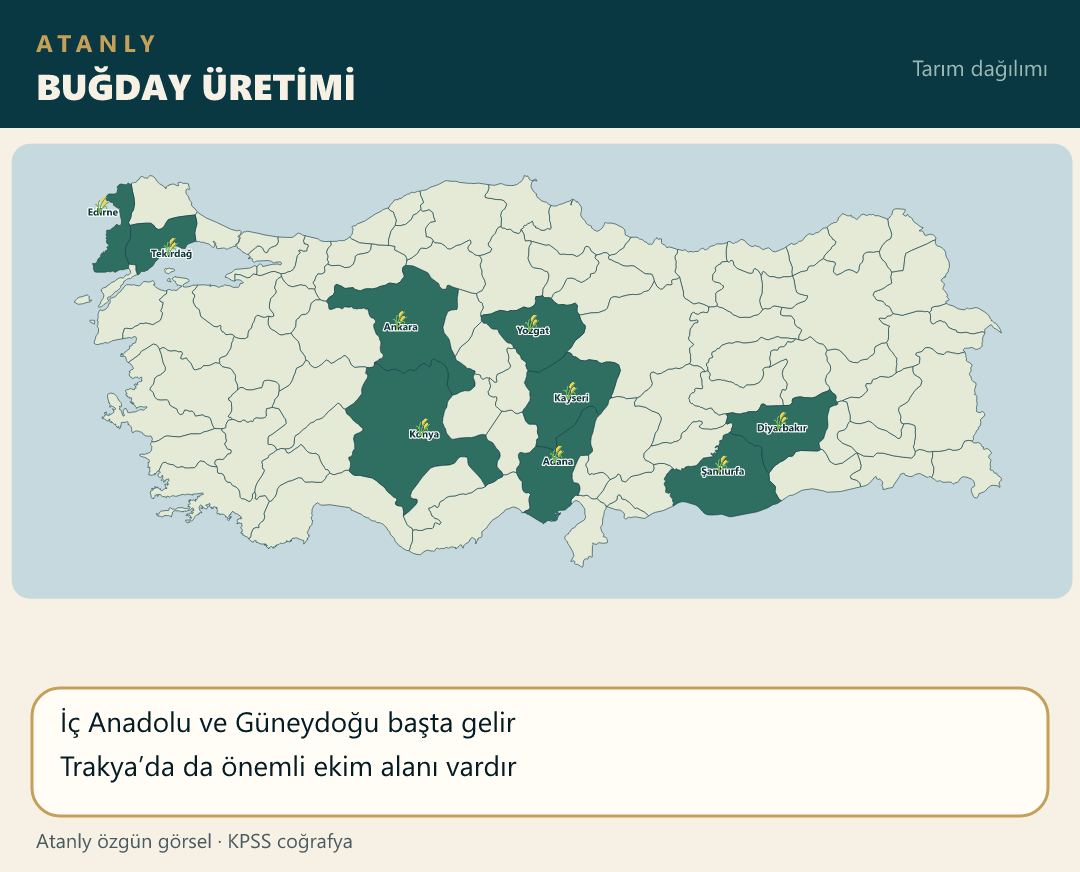
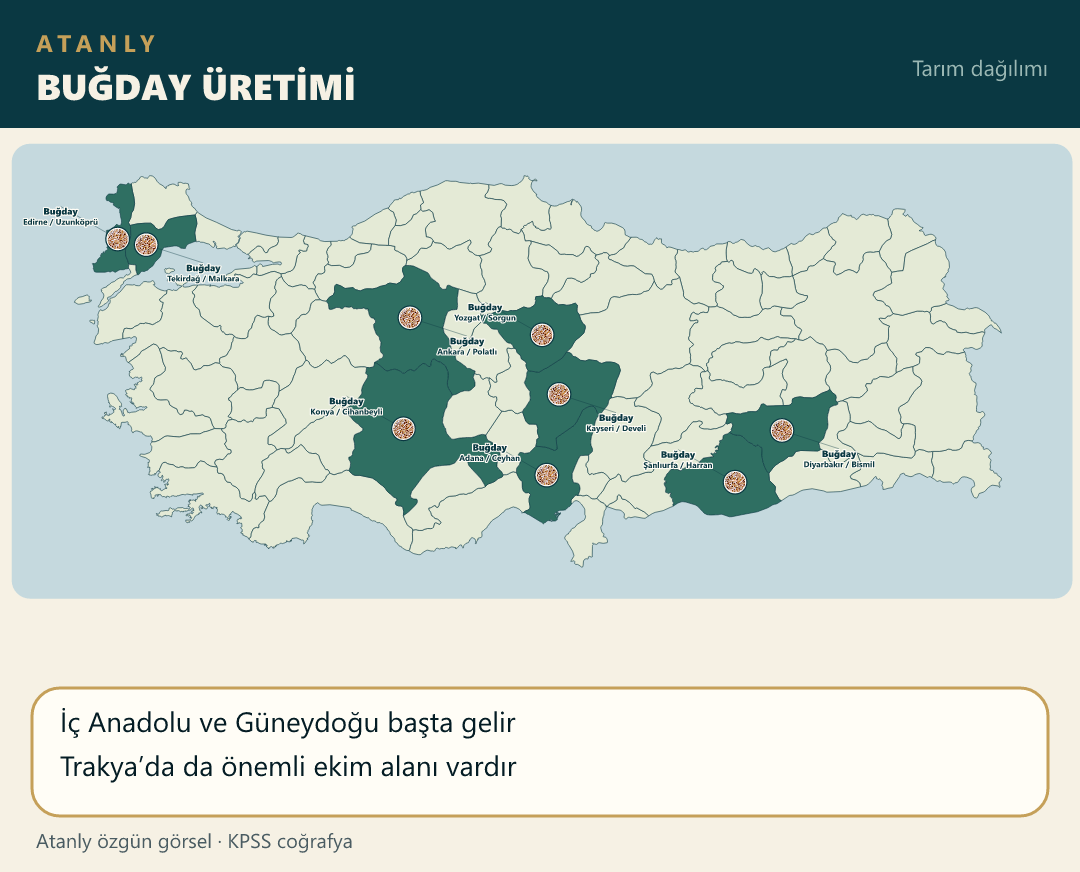
Place wheat photos and separate Thrace sunflower labels.

diff --git a/scripts/build-atanly-maps.js b/scripts/build-atanly-maps.js
@@ -404,13 +404,31 @@ function spreadSameCell(pts) {
     }
 }
 
+function spreadPhotoLabels(pts) {
+    var i, j, a, b, dx, dy;
+    for (i = 0; i < pts.length; i++) {
+        for (j = i + 1; j < pts.length; j++) {
+            if (pts[i].locked || pts[j].locked) continue;
+            dx = pts[j].pinX - pts[i].pinX;
+            dy = pts[j].pinY - pts[i].pinY;
+            if (Math.hypot(dx, dy) > 120) continue;
+            a = pts[i].pinX <= pts[j].pinX ? pts[i] : pts[j];
+            b = a === pts[i] ? pts[j] : pts[i];
+            a.ldx = -56;
+            b.ldx = 56;
+            a.ldy = -24;
+            b.ldy = 26;
+        }
+    }
+}
+
 var ICON_DIR = path.join(IMG, "map-icons");
 var iconCache = {};
 
 function topicIcon(file) {
     var k = norm(String(file || "").replace(/\.(png|jpg)$/i, ""));
     var T = {
-        gul: "rose", elma: "apple", bugday: "wheat", pamuk: "cotton", zeytin: "olive",
+        gul: "rose", elma: "apple", bugday: "bugday", pamuk: "cotton", zeytin: "olive",
         uzum: "grapes", misir: "corn", patates: "potato", arpa: "arpa", sekerpancar: "beet",
         hashas: "poppy", incir: "fig", kayisi: "apricot", muz: "banana", anason: "anason",
         aspir: "aspir", susam: "seed", tutun: "leaf", yerfistik: "peanut", antepfistik: "antepfistik",
@@ -478,19 +496,21 @@ function cropMap(provs, opts) {
         }
         hi.push(row.il);
         var pos = districtXY(fp);
-        var ldy = (fp.maxY - pos.y) < 55 ? -20 : 22;
+        var ldy = row.ldy != null ? row.ldy : ((fp.maxY - pos.y) < 55 ? -20 : 22);
         pts.push({
             x: pos.x, y: pos.y, ox: pos.x, oy: pos.y,
             pinX: pos.x, pinY: pos.y,
-            ldx: 0,
+            ldx: row.ldx != null ? row.ldx : 0,
             ldy: ldy,
             text: row.yazi || row.il,
             urun: opts.urun || "",
             il: row.il,
-            ilce: row.ilce || ""
+            ilce: row.ilce || "",
+            locked: row.ldx != null
         });
     });
     if (!opts.urun) spreadSameCell(pts);
+    else spreadPhotoLabels(pts);
     var factsY = 78 + MAP_BLOCK_H + 16;
     var facts = wrapFacts(opts.facts, 16, factsY, CANVAS_W - 32, 14);
     var H = factsY + facts.h + 28;
@@ -511,7 +531,19 @@ function main() {
 
     var crops = [
         { file: "elma.png", title: "ELMA ÜRETİMİ", iller: ["Isparta", "Karaman", "Niğde", "Nevşehir", "Konya", "Denizli", "Antalya"], facts: ["Yoğunluk: Göller Yöresi ve Niğde–Nevşehir çevresi", "İç Anadolu’nun yüksek ovalarında da yetişir"] },
-        { file: "bugday.png", title: "BUĞDAY ÜRETİMİ", iller: ["Konya", "Ankara", "Şanlıurfa", "Diyarbakır", "Tekirdağ", "Edirne", "Yozgat", "Kayseri", "Adana"], facts: ["İç Anadolu ve Güneydoğu başta gelir", "Trakya’da da önemli ekim alanı vardır"] },
+        { file: "bugday.png", title: "BUĞDAY ÜRETİMİ", urun: "Buğday",
+            noktalar: [
+                { il: "Konya", ilce: "Cihanbeyli" },
+                { il: "Ankara", ilce: "Polatlı" },
+                { il: "Şanlıurfa", ilce: "Harran" },
+                { il: "Diyarbakır", ilce: "Bismil" },
+                { il: "Tekirdağ", ilce: "Malkara" },
+                { il: "Edirne", ilce: "Uzunköprü" },
+                { il: "Yozgat", ilce: "Sorgun" },
+                { il: "Kayseri", ilce: "Develi" },
+                { il: "Adana", ilce: "Ceyhan" }
+            ],
+            facts: ["İç Anadolu ve Güneydoğu başta gelir", "Trakya’da da önemli ekim alanı vardır"] },
         { file: "pamuk.png", title: "PAMUK ÜRETİMİ", iller: ["Şanlıurfa", "Diyarbakır", "Adana", "Aydın", "İzmir", "Hatay", "Mardin"], facts: ["Sıcaklık ve sulama ister", "Çukurova ve Güneydoğu öne çıkar"] },
         { file: "zeytin.png", title: "ZEYTİN ÜRETİMİ", iller: ["Aydın", "İzmir", "Balıkesir", "Manisa", "Muğla", "Bursa", "Hatay", "Mersin", "Gaziantep"], facts: ["Akdeniz iklimi kıyı kuşağı", "Ege birinci sıradadır"] },
         { file: "üzüm.png", title: "ÜZÜM ÜRETİMİ", iller: ["Manisa", "Denizli", "İzmir", "Nevşehir", "Elazığ", "Gaziantep", "Tekirdağ"], facts: ["Ege bağcılığın merkezidir", "Kapadokya ve Güneydoğu’da da yetişir"] },
@@ -558,8 +590,8 @@ function main() {
         { file: "pirinc.jpg", title: "ÇELTİK / PİRİNÇ", iller: ["Edirne", "Samsun", "Balıkesir"], facts: ["Meriç boyları başta gelir", "Diğer ekim alanları Osmancık ve Tosya", "Üretim devlet kontrolündedir"] },
         { file: "ay_cicek.jpg", title: "AYÇİÇEĞİ ÜRETİMİ", urun: "Ayçiçeği",
             noktalar: [
-                { il: "Tekirdağ", ilce: "Malkara" },
-                { il: "Edirne", ilce: "Uzunköprü" },
+                { il: "Tekirdağ", ilce: "Malkara", ldx: 38, ldy: 30 },
+                { il: "Edirne", ilce: "Uzunköprü", ldx: -34, ldy: -26 },
                 { il: "Konya", ilce: "Cihanbeyli" },
                 { il: "Adana", ilce: "Ceyhan" }
             ],

diff --git a/index.html b/index.html
@@ -116,8 +116,8 @@
     <script src="notlar/cografya-15-not.js?v=9"></script>
     <script src="notlar/cografya-16-not.js?v=3"></script>
     <script src="notlar/cografya-17-not.js?v=3"></script>
-    <script src="notlar/cografya-18-not.js?v=10"></script>
-    <script src="notlar/cografya-19-not.js?v=14"></script>
+    <script src="notlar/cografya-18-not.js?v=11"></script>
+    <script src="notlar/cografya-19-not.js?v=15"></script>
     <script src="notlar/cografya-20-not.js?v=1"></script>
     <script src="notlar/cografya-21-not.js?v=4"></script>
     <script src="notlar/vatandas-1-not.js?v=3"></script>

diff --git a/notlar/cografya-18-not.js b/notlar/cografya-18-not.js
@@ -331,7 +331,7 @@ window.cografya_18_notlari = [
         </div>
         <!-- 🗺 HARİTA / RESİM ALANI -->
             <div class="mt-4 overflow-hidden rounded-xl border border-blue-200 dark:border-blue-700/50 bg-white dark:bg-slate-800 p-2">
-                <img src="./src/img/ay_cicek.jpg?v=10" alt="AYÇİÇEĞİ Haritası" class="w-full h-auto rounded-lg object-contain" loading="lazy">
+                <img src="./src/img/ay_cicek.jpg?v=11" alt="AYÇİÇEĞİ Haritası" class="w-full h-auto rounded-lg object-contain" loading="lazy">
             </div>
     </div>
     `,

diff --git a/notlar/cografya-19-not.js b/notlar/cografya-19-not.js
@@ -2,7 +2,7 @@
 (function () {
     function harita(src, alt) {
         return '<div class="mt-4 overflow-hidden rounded-xl border border-blue-200 dark:border-blue-700/50 bg-white dark:bg-slate-800 p-2">' +
-            '<img src="./src/img/' + src + '?v=18" alt="' + alt + ' Haritası" class="w-full h-auto rounded-lg object-contain" loading="lazy">' +
+            '<img src="./src/img/' + src + '?v=19" alt="' + alt + ' Haritası" class="w-full h-auto rounded-lg object-contain" loading="lazy">' +
             "</div>";
     }
 
